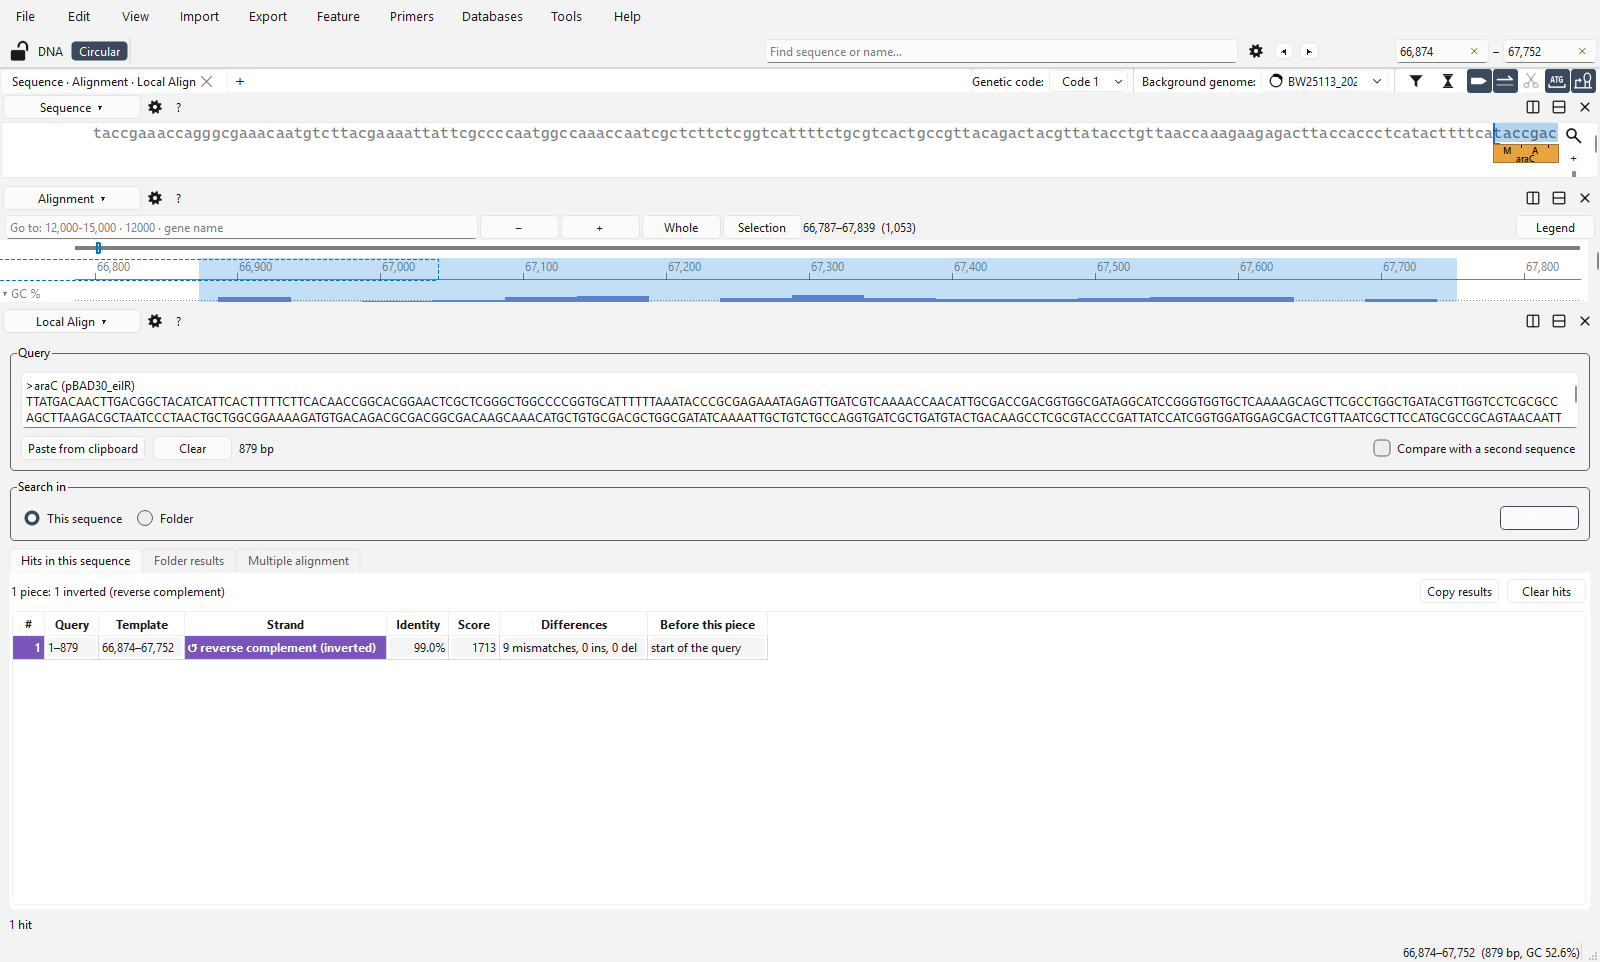
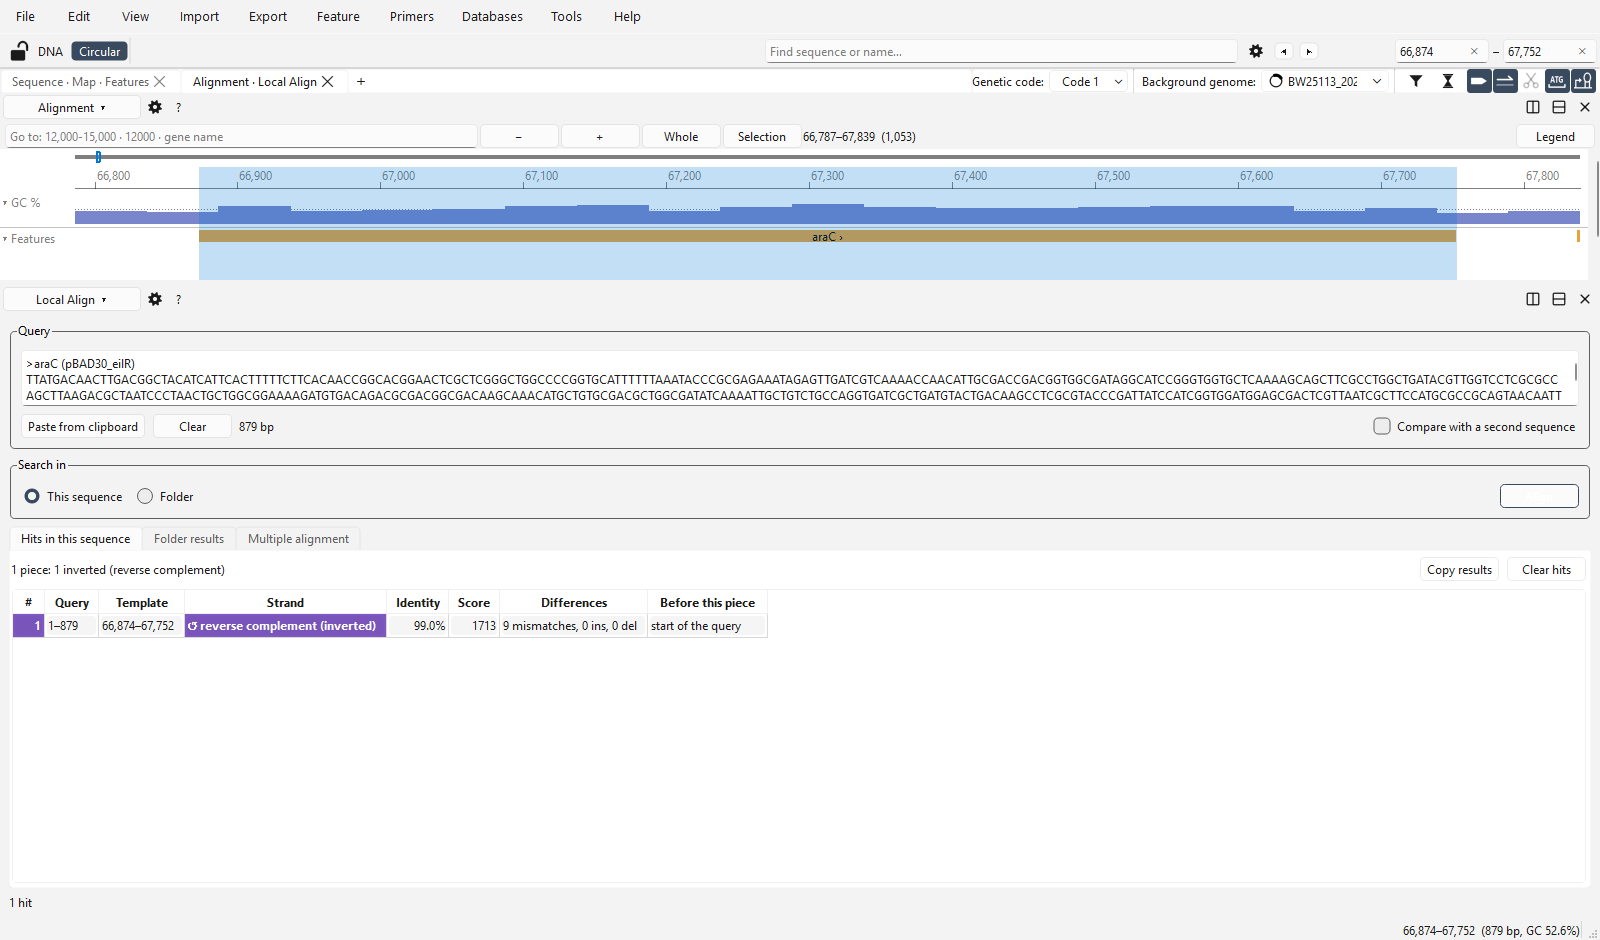
Screenshots: tools in full view tabs, fake BAM written like the unit tests do (no WSL)

diff --git a/scripts/make_screenshots.py b/scripts/make_screenshots.py
@@ -38,11 +38,15 @@ def settle(seconds=0.6):
         time.sleep(0.02)
 
 
-def window(path, layout=None):
+def window(path, layout=None, tool=None):
+    """`tool`: a view that gets a view tab of its own, shown full size (the first tab keeps `layout`, or the defaults)."""
     win = M.new_window()
     win.window().resize(*SIZE)
     assert win.load(str(path)), path
-    if layout is not None:
+    if tool is not None:
+        tabs = [{"layout": layout if layout is not None else M.DEFAULT_LAYOUT[0]["layout"]}, {"layout": pane(tool)}]
+        win._build_workspace(tabs, current=1)
+    elif layout is not None:
         win._build_workspace([{"layout": layout}])
     settle()
     return win
@@ -65,8 +69,7 @@ def editor():
 
 def multi_genome():
     """Vibrio cholerae: two chromosomes in one GenBank file; the Map lists them, a click switches."""
-    win = window(DEMO / "vibrio_cholerae_N16961.gb",
-                 split("h", [6000, 4000], pane("Map"), split("v", [5000, 5000], pane("Sequence"), pane("Features"))))
+    win = window(DEMO / "vibrio_cholerae_N16961.gb", tool="Map")
     save(win, "multi_genome")
 
 
@@ -90,8 +93,7 @@ def gibson():
 
 def primers():
     """The Primers pane and the PCR pane on pBAD30, with the plasmid's own Verif pBAD30_F / _R primers."""
-    win = window(DEMO / "pBAD30_eilR.gb",
-                 split("h", [3200, 6800], pane("Sequence"), split("v", [3000, 7000], pane("Primers"), pane("PCR"))))
+    win = window(DEMO / "pBAD30_eilR.gb", tool="PCR")
     pcr = [p.view for p in win.workspace.panes() if p.view_name == "PCR"][0]
     fwd = next(i for i, s in enumerate(pcr.fwd_sites) if "Verif" in s.label)
     rev = next(i for i, s in enumerate(pcr.rev_sites) if "Verif" in s.label)
@@ -103,8 +105,7 @@ def primers():
 
 def cas9():
     """The Spacer Finder on pFG051: every SpCas9 guide with its cut, score and other matching sites, one added to the sequence."""
-    win = window(DEMO / "pFG051_Chlor.gb",
-                 split("v", [4500, 5500], pane("Sequence"), pane("Spacer Finder")))
+    win = window(DEMO / "pFG051_Chlor.gb", tool="Spacer Finder")
     gene = next(f for f in win.editor.features if "Transposase" in (f.label or ""))
     start, end = min(a for a, _ in gene.spans), max(b for _, b in gene.spans)
     finder = [p.view for p in win.workspace.panes() if p.view_name == "Spacer Finder"][0]
@@ -127,8 +128,7 @@ def local_align():
     plasmid = Document(str(DEMO / "pBAD30_eilR.gb"))
     araC = next(f for f in plasmid.features() if f.label == "araC")
     query = "".join(plasmid.sequence(a, b) for a, b in araC.spans)
-    win = window(DEMO / "BW25113_2026.gb",
-                 split("v", [1800, 4200, 4000], pane("Sequence"), pane("Alignment"), pane("Local Align")))
+    win = window(DEMO / "BW25113_2026.gb", tool="Local Align")
     dialog = [p.view for p in win.workspace.panes() if p.view_name == "Local Align"][0]
     dialog.query.setPlainText(f">araC (pBAD30_eilR)\n{query}")
     dialog.run()
@@ -137,30 +137,33 @@ def local_align():
 
 
 def reads_bam():
-    """A BAM of simulated Illumina reads of pFG051, mapped with the program's own recipe (bwa in WSL): made once, kept in
-    the scratch folder. Needs bwa and samtools, as Tools > Map Reads does."""
+    """A fake BAM of pFG051 written like the unit tests write theirs (no bwa, no WSL): 150-bp reads at about 60x, 40 % of them
+    from a clone that lacks 120 bases near 1,900, and a base changed in a third of the reads at one position."""
     import random
     sys.path.insert(0, str(ROOT / "tests"))
-    import fake_reads as F
+    import test_core_formats as T
     import runner
-    folder = Path(os.environ["OPENDNA_DATA_DIR"]) / "reads"
-    bam = folder / "clone.bam"
-    if bam.exists():
-        return bam
-    folder.mkdir(parents=True, exist_ok=True)
+    bam = Path(os.environ["OPENDNA_DATA_DIR"]) / "clone.bam"
     from opendna_core import Document
     doc = Document(str(DEMO / "pFG051_Chlor.gb"))
-    ref, rng = doc.sequence().upper(), random.Random(55)
-    fasta = folder / "ref.fa"
-    fasta.write_text(f">{runner.safe_name(doc.name)}\n{ref}\n")
-    clone = F.clones(ref, rng)["cloneB_mixed_population"]        # a mixed colony: some reads carry the change, some do not
-    haplotypes = [(share, F.apply(ref, events)) for share, events in clone]
-    r1, r2 = folder / "R1.fastq", folder / "R2.fastq"
-    with open(r1, "w") as f1, open(r2, "w") as f2:
-        for n, (a, b, qa, qb) in enumerate(F.element(haplotypes, len(ref), rng)):
-            f1.write(f"@r{n}/1\n{a}\n+\n{qa}\n")
-            f2.write(f"@r{n}/2\n{b}\n+\n{qb}\n")
-    F.map_reads("bwa_mem", fasta, r1, r2, folder / "clone")
+    ref, rng, n = doc.sequence().upper(), random.Random(55), doc.length
+    gap0, gap1, snp, reads = 1850, 1970, 700, []
+    for i in range(n * 60 // 150):
+        pos, ops, left = rng.randrange(0, n - 150), [], 150
+        deleted = rng.random() < 0.4
+        if deleted and gap0 <= pos < gap1:
+            pos = gap1
+        r = pos
+        while left:
+            if deleted and r < gap0 < r + left:      # the read runs into the missing stretch: M, D, M
+                ops += [(gap0 - r, "M"), (gap1 - gap0, "D")]
+                left, r = left - (gap0 - r), gap1
+            else:
+                ops.append((left, "M"))
+                left = 0
+        subs = {snp: "A" if ref[snp] != "A" else "G"} if rng.random() < 0.33 else {}
+        reads.append(T.build_read(f"r{i}", pos, ops, ref, subs=subs, qual=[35] * 150, flag=16 * rng.randrange(2)))
+    T.write_bam(bam, [(runner.safe_name(doc.name), n)], reads)
     return bam
 
 
